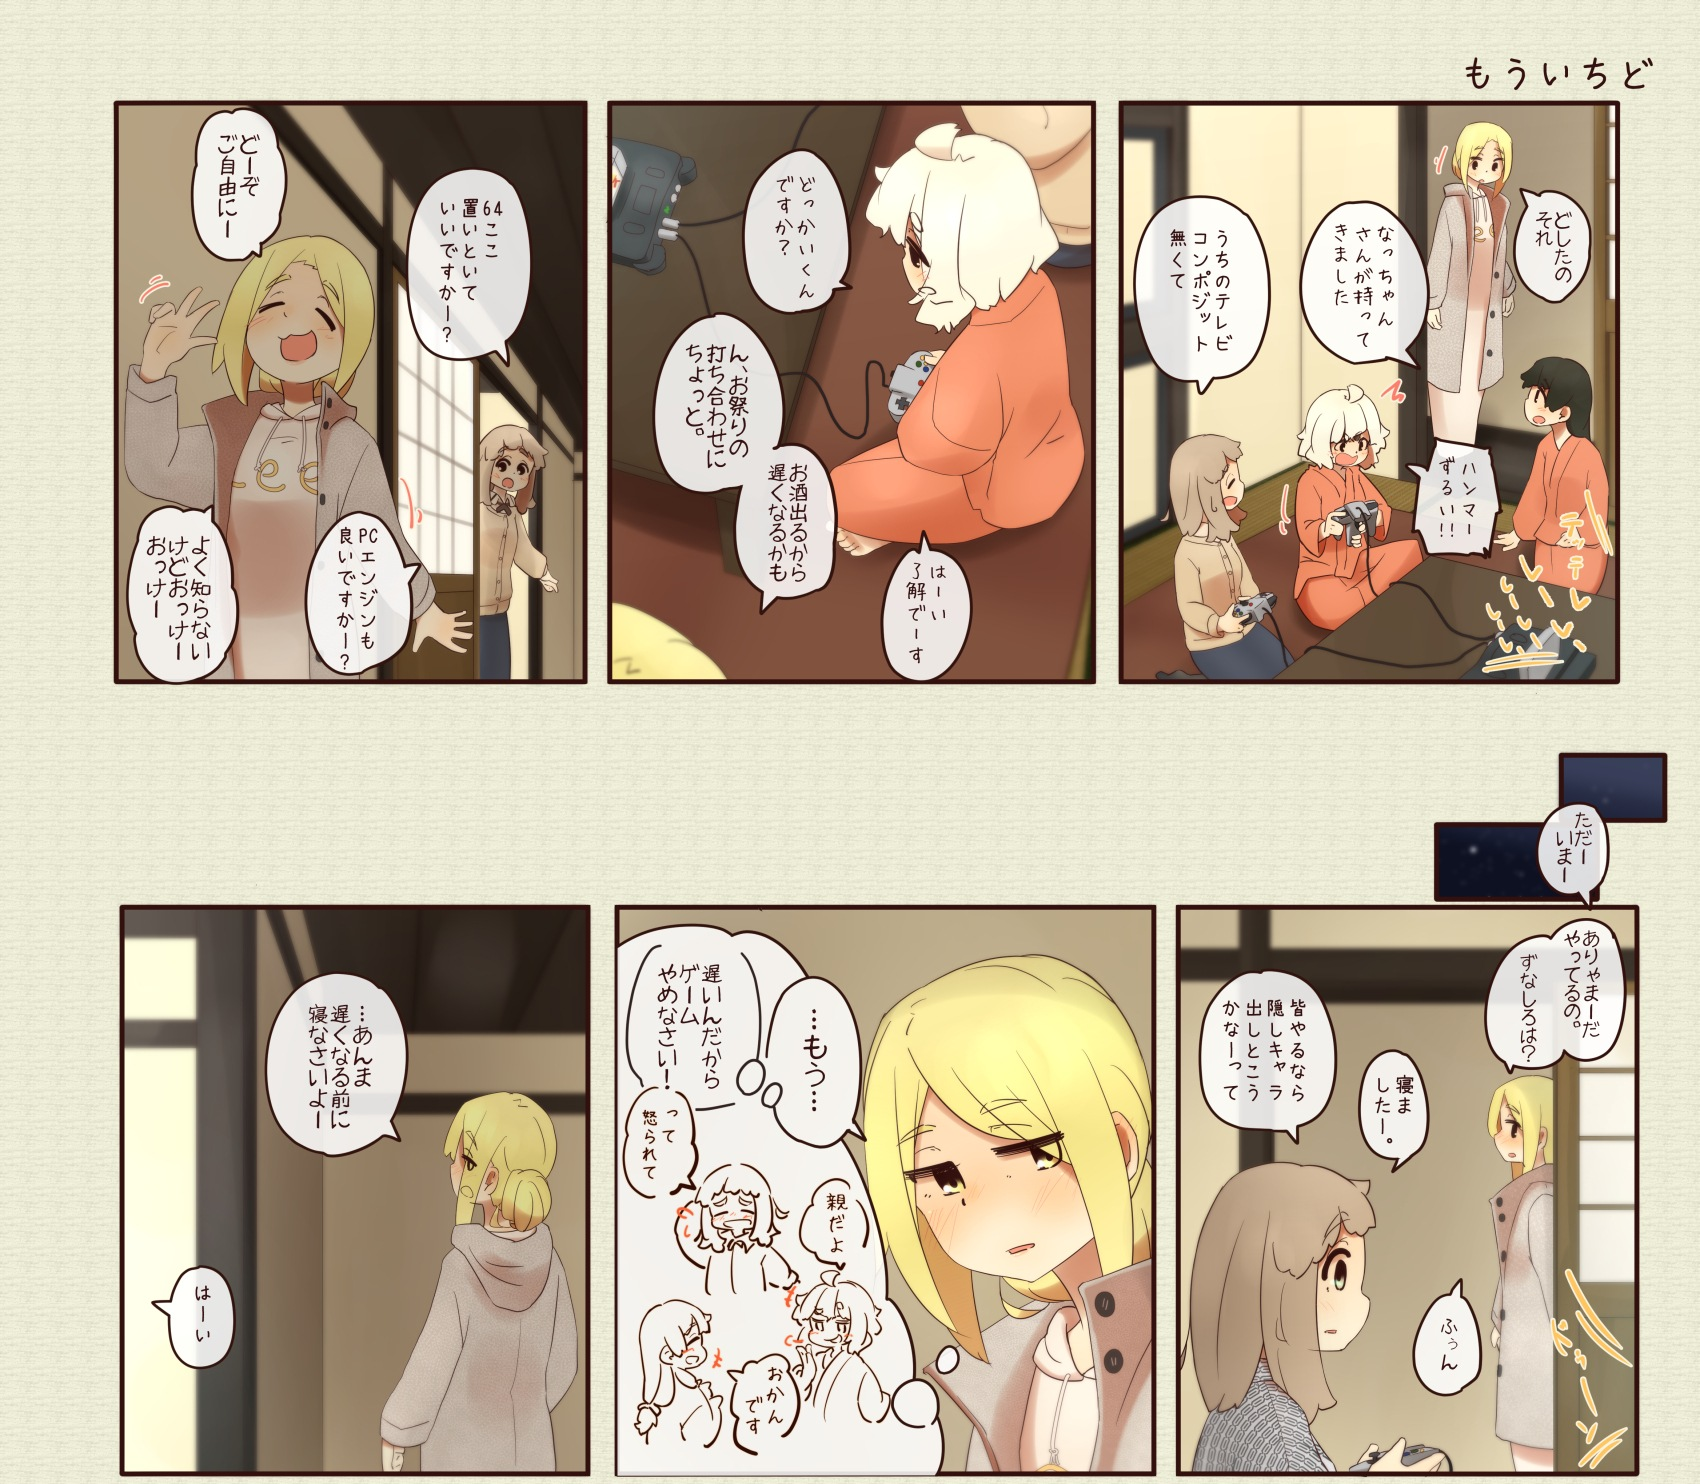
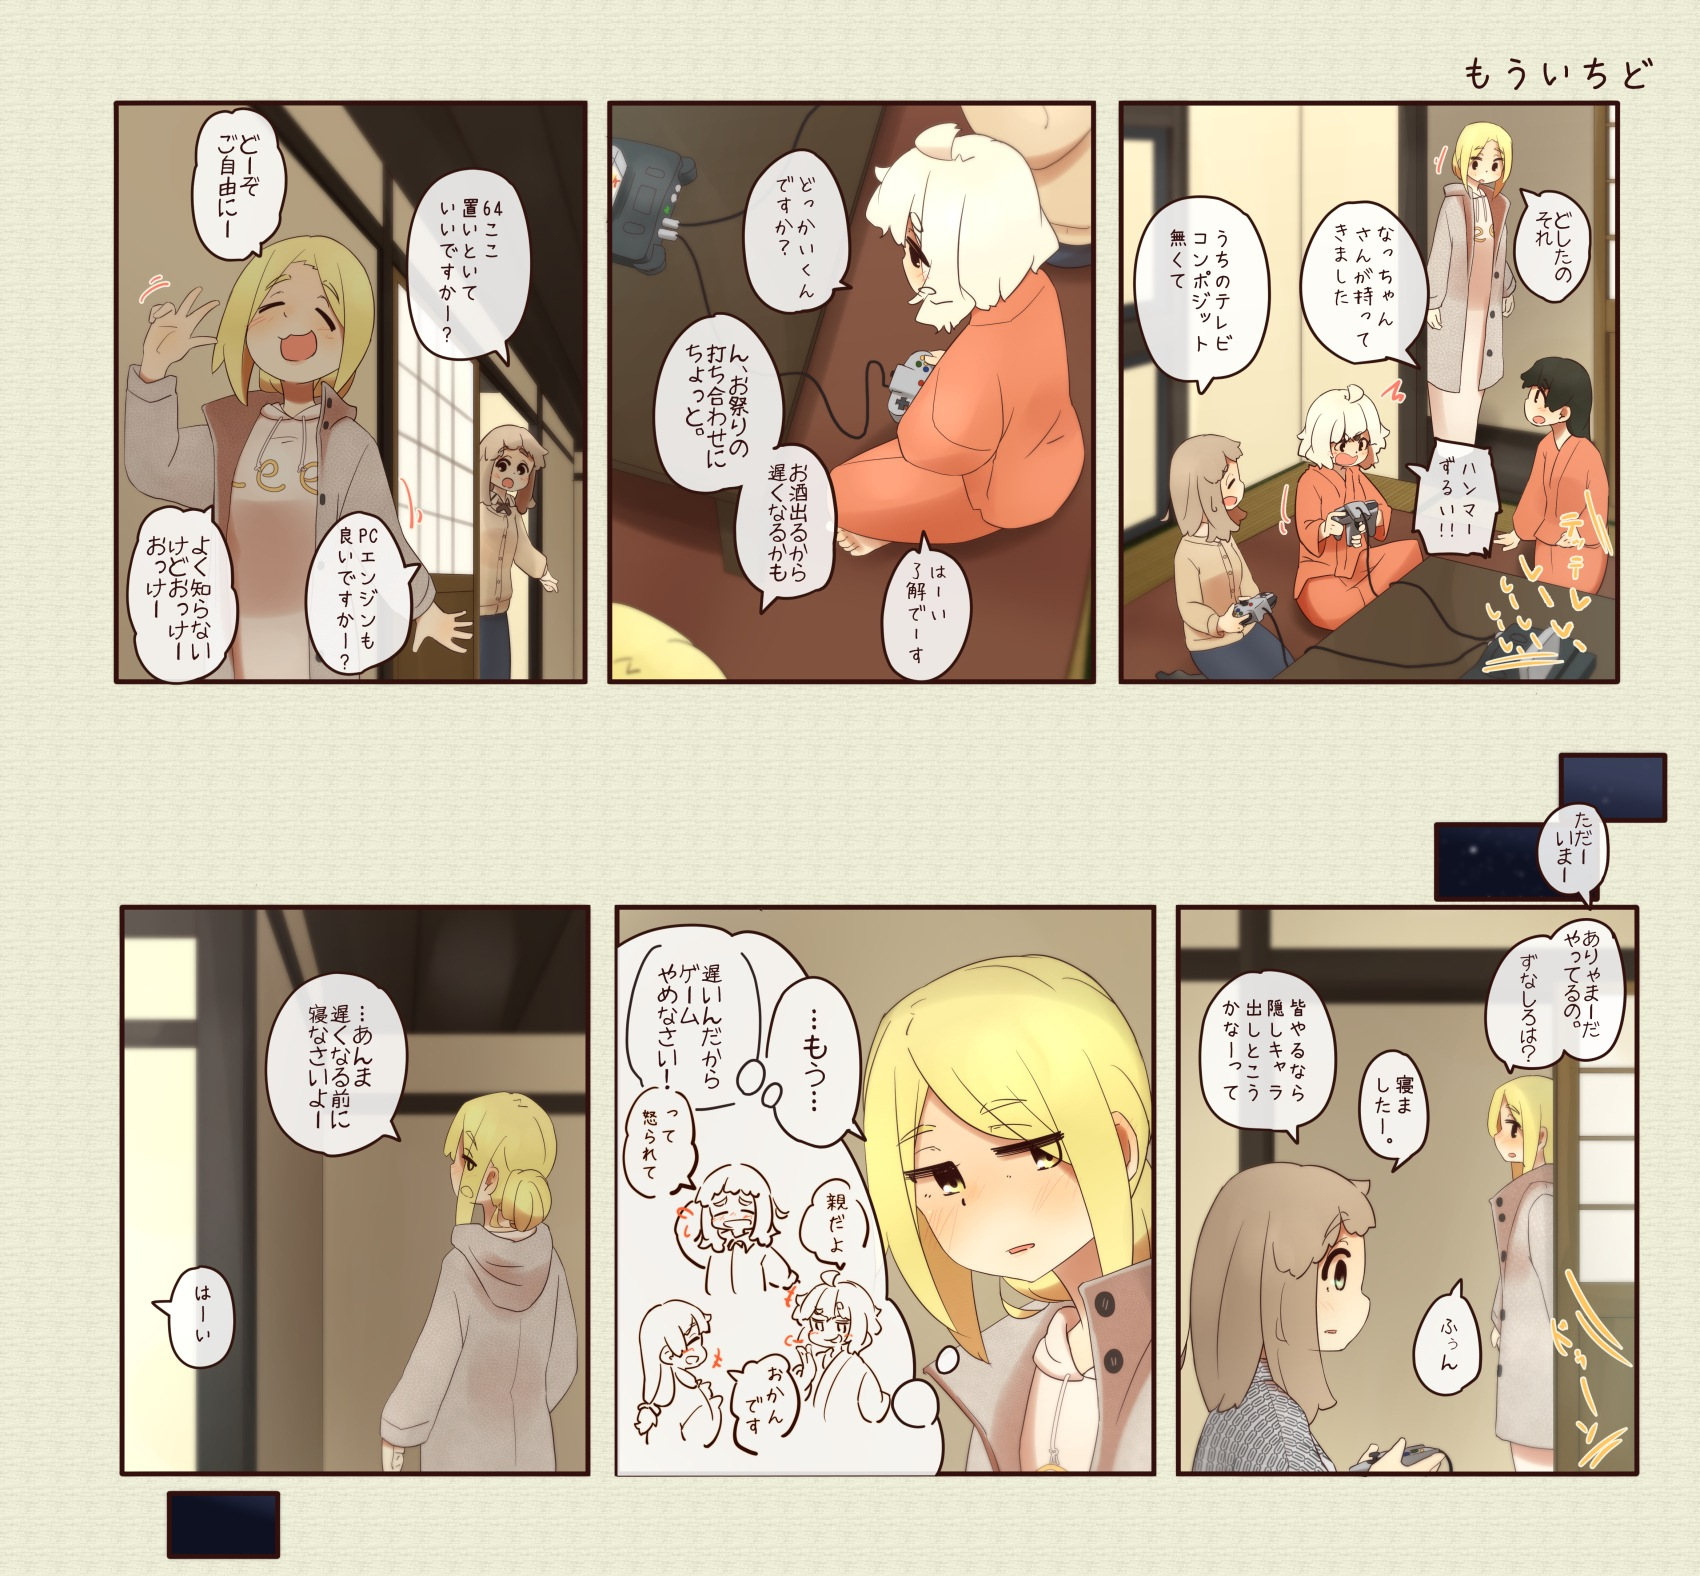
update: auto updated 4komaData by workflow

diff --git a/4komaData.js b/4komaData.js
@@ -275,4 +275,4 @@ pageData = [
 {"Title": "厚み", "ImagesUrl": ["https://mo4koma.iranika.info/4koma/ja/274-1.jpg", "https://mo4koma.iranika.info/4koma/ja/274-2.jpg", "https://mo4koma.iranika.info/4koma/ja/sp.jpg"]},
 {"Title": "第一歩", "ImagesUrl": ["https://mo4koma.iranika.info/4koma/ja/275-1.jpg", "https://mo4koma.iranika.info/4koma/ja/275-2.jpg", "https://mo4koma.iranika.info/4koma/ja/275-3.jpg", "https://mo4koma.iranika.info/4koma/ja/275-4.jpg", "https://mo4koma.iranika.info/4koma/ja/sp.jpg"]},
 {"Title": "せいちょう", "ImagesUrl": ["https://mo4koma.iranika.info/4koma/ja/276-1.jpg", "https://mo4koma.iranika.info/4koma/ja/276-2.jpg", "https://mo4koma.iranika.info/4koma/ja/sp.jpg"]},
-{"Title": "もういちど", "ImagesUrl": ["https://mo4koma.iranika.info/4koma/ja/277-1.jpg", "https://mo4koma.iranika.info/4koma/ja/sp.jpg"]}]
+{"Title": "もういちど", "ImagesUrl": ["https://mo4koma.iranika.info/4koma/ja/277-1.jpg", "https://mo4koma.iranika.info/4koma/ja/277-2.jpg", "https://mo4koma.iranika.info/4koma/ja/sp.jpg"]}]
